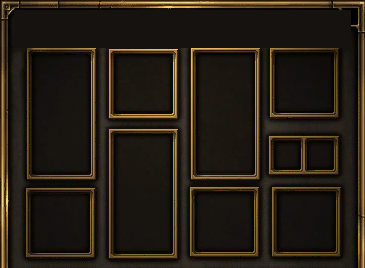
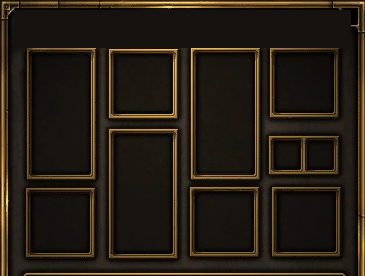
Fix Fit chrome: one-line title, native nameplate, closed gear rail.
Stop wrapping the header, drop nameplate truncation, put Last searched in the middle, and include the paperdoll's bottom gold line.

diff --git a/app/assets/css/fit.css b/app/assets/css/fit.css
@@ -31,12 +31,11 @@ html:has(.fit-app) body {
 }
 
 .fit-top {
-  display: flex;
+  display: grid;
+  grid-template-columns: minmax(0, 1fr) auto minmax(0, 1fr);
   align-items: center;
-  justify-content: space-between;
-  gap: 1rem;
+  gap: 0.65rem 1rem;
   padding: 0.85rem 1.25rem 0.4rem;
-  flex-wrap: wrap;
 }
 
 .fit-brand {
@@ -45,6 +44,7 @@ html:has(.fit-app) body {
   align-items: flex-start;
   gap: 0.15rem;
   min-width: 0;
+  justify-self: start;
 }
 
 .fit-brand-home {
@@ -71,10 +71,10 @@ html:has(.fit-app) body {
 
 .fit-brand-home strong {
   color: var(--fit-gold);
-  font-size: 1.02rem;
+  font-size: clamp(0.78rem, 1.05vw, 0.98rem);
   letter-spacing: 0.02em;
   line-height: 1.2;
-  max-width: 22rem;
+  white-space: nowrap;
 }
 
 .fit-app .fit-by {
@@ -83,16 +83,34 @@ html:has(.fit-app) body {
   font-size: 0.88rem;
 }
 
-.fit-search-row {
-  display: flex;
-  align-items: center;
-  gap: 0.85rem;
-  flex-wrap: wrap;
+.fit-midnav {
+  justify-self: center;
 }
 
 .fit-last-searched {
+  display: inline-flex;
+  align-items: center;
+  justify-content: center;
   white-space: nowrap;
   font-size: 0.95rem;
+  padding: 0.45rem 0.9rem;
+  border: 1px solid var(--fit-gold-dim);
+  background: linear-gradient(#3a2712, #24160b);
+  color: var(--fit-gold);
+}
+
+.fit-last-searched:hover {
+  border-color: var(--fit-gold);
+  text-decoration: none;
+}
+
+.fit-search-row {
+  display: flex;
+  align-items: center;
+  justify-content: flex-end;
+  gap: 0.85rem;
+  flex-wrap: wrap;
+  justify-self: end;
 }
 
 .fit-search {
@@ -189,7 +207,7 @@ html:has(.fit-app) body {
 
 .fit-sheet {
   display: grid;
-  grid-template-columns: 1.622fr 0.643fr;
+  grid-template-columns: 1.45fr 0.78fr;
   gap: 1.1rem 1.15rem;
   justify-content: center;
   align-items: start;
@@ -199,9 +217,8 @@ html:has(.fit-app) body {
 
 .fit-nameplate {
   grid-column: 1 / -1;
-  width: min(380px, 92%);
-  aspect-ratio: 256 / 128;
-  height: auto;
+  width: 256px;
+  height: 128px;
   margin: 0 auto;
   background: url("/fit/ui/nameplate.png") center / 100% 100% no-repeat;
   display: flex;
@@ -209,34 +226,28 @@ html:has(.fit-app) body {
   align-items: center;
   justify-content: center;
   text-align: center;
-  padding: 0.35rem 12% 0.5rem;
+  padding: 42px 40px 34px;
   box-sizing: border-box;
 }
 
 .fit-nameplate strong {
-  font-size: clamp(1.12rem, 2vw, 1.4rem);
+  font-size: 0.95rem;
   line-height: 1.15;
   max-width: 100%;
-  overflow: hidden;
-  text-overflow: ellipsis;
-  white-space: nowrap;
   text-shadow: 0 1px 2px #000;
 }
 
 .fit-nameplate span {
   color: var(--fit-muted);
-  font-size: 0.98rem;
+  font-size: 0.7rem;
   line-height: 1.2;
   max-width: 100%;
-  overflow: hidden;
-  text-overflow: ellipsis;
-  white-space: nowrap;
 }
 
 .fit-equip {
   position: relative;
   width: 100%;
-  aspect-ratio: 365 / 268;
+  aspect-ratio: 365 / 276;
   background: url("/fit/ui/equip.png") center / 100% 100% no-repeat;
 }
 
@@ -271,16 +282,16 @@ html:has(.fit-app) body {
   outline-offset: -2px;
 }
 
-.fit-slot-weapon { left: 7.9%; top: 18.7%; width: 17.0%; height: 46.6%; }
-.fit-slot-helm { left: 31.2%; top: 19.8%; width: 16.2%; height: 22.8%; }
-.fit-slot-shield { left: 53.4%; top: 19.4%; width: 16.4%; height: 45.9%; }
-.fit-slot-shoulders { left: 75.1%; top: 18.7%; width: 17.3%; height: 23.5%; }
-.fit-slot-armor { left: 31.0%; top: 49.6%; width: 16.4%; height: 45.1%; }
-.fit-slot-ring1 { left: 74.2%; top: 51.5%; width: 8.2%; height: 11.9%; }
-.fit-slot-ring2 { left: 83.6%; top: 51.5%; width: 8.2%; height: 11.9%; }
-.fit-slot-gloves { left: 7.7%; top: 70.9%; width: 17.3%; height: 23.5%; }
-.fit-slot-boots { left: 53.2%; top: 71.3%; width: 16.4%; height: 22.8%; }
-.fit-slot-amulet { left: 75.1%; top: 70.5%; width: 17.3%; height: 23.9%; }
+.fit-slot-weapon { left: 7.9%; top: 18.1%; width: 17.0%; height: 45.3%; }
+.fit-slot-helm { left: 31.2%; top: 19.2%; width: 16.2%; height: 22.1%; }
+.fit-slot-shield { left: 53.4%; top: 18.8%; width: 16.4%; height: 44.6%; }
+.fit-slot-shoulders { left: 75.1%; top: 18.1%; width: 17.3%; height: 22.8%; }
+.fit-slot-armor { left: 31.0%; top: 48.2%; width: 16.4%; height: 43.8%; }
+.fit-slot-ring1 { left: 74.2%; top: 50.0%; width: 8.2%; height: 11.6%; }
+.fit-slot-ring2 { left: 83.6%; top: 50.0%; width: 8.2%; height: 11.6%; }
+.fit-slot-gloves { left: 7.7%; top: 68.8%; width: 17.3%; height: 22.8%; }
+.fit-slot-boots { left: 53.2%; top: 69.2%; width: 16.4%; height: 22.1%; }
+.fit-slot-amulet { left: 75.1%; top: 68.5%; width: 17.3%; height: 23.2%; }
 
 .fit-slot.is-ghost img {
   opacity: 0.4;
@@ -298,32 +309,32 @@ html:has(.fit-app) body {
 
 .fit-stats h2 {
   position: absolute;
-  left: 12%;
-  right: 12%;
-  top: 3.8%;
-  height: 5.4%;
+  left: 20%;
+  right: 20%;
+  top: 3.7%;
+  height: 3.4%;
   margin: 0;
   display: flex;
   align-items: center;
   justify-content: center;
   text-align: center;
   color: var(--fit-gold);
-  font-size: clamp(0.82rem, 1.25vw, 1.02rem);
+  font-size: clamp(0.88rem, 1.35vw, 1.08rem);
   letter-spacing: 0.03em;
 }
 
 .fit-attr {
   position: absolute;
-  left: 12%;
-  right: 12%;
-  top: 12%;
-  height: 18%;
+  left: 11%;
+  right: 11%;
+  top: 11.2%;
+  height: 20.5%;
   display: grid;
   grid-template-columns: 1fr auto;
-  gap: 0.12em 0.65em;
+  gap: 0.28em 0.65em;
   align-content: center;
   margin: 0;
-  font-size: 0.98em;
+  font-size: 1.12em;
 }
 
 .fit-attr span:nth-child(odd) {
@@ -337,16 +348,16 @@ html:has(.fit-app) body {
 
 .fit-meta {
   position: absolute;
-  left: 12%;
-  right: 12%;
-  top: 38%;
-  height: 14%;
+  left: 11%;
+  right: 11%;
+  top: 37.2%;
+  height: 16%;
   display: grid;
   grid-template-columns: 1fr auto;
-  gap: 0.18em 0.65em;
+  gap: 0.4em 0.65em;
   align-content: start;
   margin: 0;
-  font-size: 0.98em;
+  font-size: 1.12em;
 }
 
 .fit-meta span:nth-child(odd) {
@@ -562,6 +573,27 @@ html:has(.fit-app) body {
 }
 
 @media (max-width: 900px) {
+  .fit-top {
+    grid-template-columns: 1fr;
+  }
+  .fit-brand,
+  .fit-search-row,
+  .fit-midnav {
+    justify-self: stretch;
+  }
+  .fit-search-row {
+    justify-content: flex-start;
+  }
+  .fit-midnav {
+    order: 3;
+  }
+  .fit-last-searched {
+    width: 100%;
+    box-sizing: border-box;
+  }
+  .fit-brand-home strong {
+    white-space: normal;
+  }
   .fit-sheet {
     grid-template-columns: 1fr;
     width: min(640px, calc(100vw - 1.5rem));
@@ -572,6 +604,7 @@ html:has(.fit-app) body {
     width: 100%;
   }
   .fit-nameplate {
-    width: min(380px, 92%);
+    width: 256px;
+    height: 128px;
   }
 }

diff --git a/server/utils/fit-og.ts b/server/utils/fit-og.ts
@@ -9,21 +9,21 @@ export const OG_WIDTH = 1200
 export const OG_HEIGHT = 630
 export const OG_BUCKET = 'fit-og'
 
-const EQUIP_SRC = { w: 365, h: 268 }
+const EQUIP_SRC = { w: 365, h: 276 }
 const STATS_SRC = { w: 367, h: 571 }
 const NAMEPLATE_SRC = { w: 256, h: 128 }
 
 const SLOT_BOX: Record<string, { l: number, t: number, w: number, h: number }> = {
-  weapon: { l: 0.079, t: 0.187, w: 0.170, h: 0.466 },
-  helm: { l: 0.312, t: 0.198, w: 0.162, h: 0.228 },
-  shield: { l: 0.534, t: 0.194, w: 0.164, h: 0.459 },
-  shoulders: { l: 0.751, t: 0.187, w: 0.173, h: 0.235 },
-  armor: { l: 0.310, t: 0.496, w: 0.164, h: 0.451 },
-  ring1: { l: 0.742, t: 0.515, w: 0.082, h: 0.119 },
-  ring2: { l: 0.836, t: 0.515, w: 0.082, h: 0.119 },
-  gloves: { l: 0.077, t: 0.709, w: 0.173, h: 0.235 },
-  boots: { l: 0.532, t: 0.713, w: 0.164, h: 0.228 },
-  amulet: { l: 0.751, t: 0.705, w: 0.173, h: 0.239 },
+  weapon: { l: 0.079, t: 0.181, w: 0.170, h: 0.453 },
+  helm: { l: 0.312, t: 0.192, w: 0.162, h: 0.221 },
+  shield: { l: 0.534, t: 0.188, w: 0.164, h: 0.446 },
+  shoulders: { l: 0.751, t: 0.181, w: 0.173, h: 0.228 },
+  armor: { l: 0.310, t: 0.482, w: 0.164, h: 0.438 },
+  ring1: { l: 0.742, t: 0.500, w: 0.082, h: 0.116 },
+  ring2: { l: 0.836, t: 0.500, w: 0.082, h: 0.116 },
+  gloves: { l: 0.077, t: 0.688, w: 0.173, h: 0.228 },
+  boots: { l: 0.532, t: 0.692, w: 0.164, h: 0.221 },
+  amulet: { l: 0.751, t: 0.685, w: 0.173, h: 0.232 },
 }
 
 const uiCache = new Map<string, Buffer>()

diff --git a/app/layouts/fit.vue b/app/layouts/fit.vue
@@ -66,8 +66,10 @@ function go() {
         </NuxtLink>
         <a class="fit-by" :href="WIKI_ORIGIN">by the townstons</a>
       </div>
-      <div class="fit-search-row">
+      <nav class="fit-midnav">
         <NuxtLink class="fit-last-searched" :to="searchesHref">Last searched</NuxtLink>
+      </nav>
+      <div class="fit-search-row">
         <form class="fit-search" @submit.prevent="go">
           <input v-model="q" type="search" name="name" placeholder="Character name" maxlength="64" aria-label="Character name">
           <button type="submit">Look up</button>

diff --git a/scripts/build_fit_assets.py b/scripts/build_fit_assets.py
@@ -439,7 +439,7 @@ def crop_ui() -> None:
 
     # Full frame including outer gold rails. Wipe the inner title plate so Fit can
     # put the name above the panel instead of stretching it across the art.
-    equip = ui2.crop((422, 29, 787, 297)).convert("RGBA")
+    equip = ui2.crop((422, 29, 787, 305)).convert("RGBA")
     dark = equip.getpixel((50, 90))
     ew, eh = equip.size
     for y in range(10, 48):
